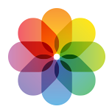
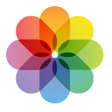
fixed button alignment in the share sidebar #1089

Changed region(s): [[0.1071, 0.1071, 0.8839, 0.8839], [0.0536, 0.0536, 0.5893, 0.5893], [0.4018, 0.4018, 0.9643, 0.9643]]

diff --git a/Project/LooseLeaf/MMPhotoAlbumShareItem.m b/Project/LooseLeaf/MMPhotoAlbumShareItem.m
@@ -88,7 +88,7 @@
         }
     }
     
-    CGPoint center = CGPointMake(button.bounds.size.width/2, button.bounds.size.height/2);
+    CGPoint center = CGPointMake(button.bounds.size.width/2-.5, button.bounds.size.height/2-.5);
     
     CGFloat radius = button.drawableFrame.size.width / 2 - 1;
     CAShapeLayer *circle;
@@ -103,14 +103,14 @@
         [button.layer addSublayer:circle];
         circle.path=[UIBezierPath bezierPathWithArcCenter:center radius:radius startAngle:2*M_PI*0-M_PI_2 endAngle:2*M_PI*1-M_PI_2 clockwise:YES].CGPath;
         circle.lineWidth=radius*2;
-        ((CAShapeLayer*)circle.mask).path=[UIBezierPath bezierPathWithArcCenter:center radius:radius-2 startAngle:2*M_PI*0-M_PI_2 endAngle:2*M_PI*1-M_PI_2 clockwise:YES].CGPath;
+        ((CAShapeLayer*)circle.mask).path=[UIBezierPath bezierPathWithArcCenter:center radius:radius-1.5 startAngle:2*M_PI*0-M_PI_2 endAngle:2*M_PI*1-M_PI_2 clockwise:YES].CGPath;
     }
     
     circle.strokeEnd = lastProgress;
     
     if(lastProgress >= 1.0){
         CAShapeLayer *mask2=[CAShapeLayer layer];
-        mask2.path=[UIBezierPath bezierPathWithArcCenter:center radius:radius-2 startAngle:2*M_PI*0-M_PI_2 endAngle:2*M_PI*1-M_PI_2 clockwise:YES].CGPath;
+        mask2.path=[UIBezierPath bezierPathWithArcCenter:center radius:radius-1.5 startAngle:2*M_PI*0-M_PI_2 endAngle:2*M_PI*1-M_PI_2 clockwise:YES].CGPath;
         
         UIView* checkOrXView = [[UIView alloc] initWithFrame:button.bounds];
         checkOrXView.backgroundColor = [UIColor whiteColor];

diff --git a/Project/LooseLeaf/MMAvatarButton.m b/Project/LooseLeaf/MMAvatarButton.m
@@ -292,7 +292,7 @@
         }
     }
     
-    CGPoint center = CGPointMake(self.bounds.size.width/2, self.bounds.size.height/2);
+    CGPoint center = CGPointMake(self.bounds.size.width/2-.5, self.bounds.size.height/2-.5);
     
     CGFloat radius = self.drawableFrame.size.width / 2 - 1;
     CAShapeLayer *circle;
@@ -310,14 +310,14 @@
         lastRadius = radius;
         circle.path=[UIBezierPath bezierPathWithArcCenter:center radius:radius startAngle:2*M_PI*0-M_PI_2 endAngle:2*M_PI*1-M_PI_2 clockwise:YES].CGPath;
         circle.lineWidth=radius*2;
-        ((CAShapeLayer*)circle.mask).path=[UIBezierPath bezierPathWithArcCenter:center radius:radius-2 startAngle:2*M_PI*0-M_PI_2 endAngle:2*M_PI*1-M_PI_2 clockwise:YES].CGPath;
+        ((CAShapeLayer*)circle.mask).path=[UIBezierPath bezierPathWithArcCenter:center radius:radius-1.5 startAngle:2*M_PI*0-M_PI_2 endAngle:2*M_PI*1-M_PI_2 clockwise:YES].CGPath;
     }
     
     circle.strokeEnd = lastProgress;
     
     if(lastProgress >= 1.0){
         CAShapeLayer *mask2=[CAShapeLayer layer];
-        mask2.path=[UIBezierPath bezierPathWithArcCenter:center radius:radius-2 startAngle:2*M_PI*0-M_PI_2 endAngle:2*M_PI*1-M_PI_2 clockwise:YES].CGPath;
+        mask2.path=[UIBezierPath bezierPathWithArcCenter:center radius:radius-1.5 startAngle:2*M_PI*0-M_PI_2 endAngle:2*M_PI*1-M_PI_2 clockwise:YES].CGPath;
         
         UIView* checkOrXView = [[UIView alloc] initWithFrame:self.bounds];
         checkOrXView.backgroundColor = [UIColor whiteColor];

diff --git a/Project/LooseLeaf/MMImgurShareItem.m b/Project/LooseLeaf/MMImgurShareItem.m
@@ -166,7 +166,7 @@
         }
     }
 
-    CGPoint center = CGPointMake(button.bounds.size.width/2, button.bounds.size.height/2);
+    CGPoint center = CGPointMake(button.bounds.size.width/2-.5, button.bounds.size.height/2-.5);
 
     CGFloat radius = button.drawableFrame.size.width / 2;
     CAShapeLayer *circle;
@@ -179,7 +179,7 @@
         circle.strokeColor=[[UIColor whiteColor] colorWithAlphaComponent:.7].CGColor;
         circle.lineWidth=radius*2;
         CAShapeLayer *mask=[CAShapeLayer layer];
-        mask.path=[UIBezierPath bezierPathWithArcCenter:center radius:radius-2 startAngle:2*M_PI*0-M_PI_2 endAngle:2*M_PI*1-M_PI_2 clockwise:YES].CGPath;
+        mask.path=[UIBezierPath bezierPathWithArcCenter:center radius:radius-1.5 startAngle:2*M_PI*0-M_PI_2 endAngle:2*M_PI*1-M_PI_2 clockwise:YES].CGPath;
         circle.mask = mask;
         [button.layer addSublayer:circle];
     }
@@ -188,7 +188,7 @@
     
     if(lastProgress >= 1.0){
         CAShapeLayer *mask2=[CAShapeLayer layer];
-        mask2.path=[UIBezierPath bezierPathWithArcCenter:center radius:radius-2 startAngle:2*M_PI*0-M_PI_2 endAngle:2*M_PI*1-M_PI_2 clockwise:YES].CGPath;
+        mask2.path=[UIBezierPath bezierPathWithArcCenter:center radius:radius-1.5 startAngle:2*M_PI*0-M_PI_2 endAngle:2*M_PI*1-M_PI_2 clockwise:YES].CGPath;
         
         UIView* checkOrXView = [[UIView alloc] initWithFrame:button.bounds];
         checkOrXView.backgroundColor = [UIColor whiteColor];

diff --git a/Project/LooseLeaf/MMCopyShareItem.m b/Project/LooseLeaf/MMCopyShareItem.m
@@ -58,7 +58,7 @@
 }
 
 -(void) animateToSuccess:(BOOL)succeeded{
-    CGPoint center = CGPointMake(button.bounds.size.width/2, button.bounds.size.height/2);
+    CGPoint center = CGPointMake(button.bounds.size.width/2-.5, button.bounds.size.height/2-.5);
     
     CAShapeLayer *circle=[CAShapeLayer layer];
     CGFloat radius = button.drawableFrame.size.width / 2;
@@ -70,10 +70,10 @@
     
     
     CAShapeLayer *mask=[CAShapeLayer layer];
-    mask.path=[UIBezierPath bezierPathWithArcCenter:center radius:radius-2 startAngle:2*M_PI*0-M_PI_2 endAngle:2*M_PI*1-M_PI_2 clockwise:YES].CGPath;
+    mask.path=[UIBezierPath bezierPathWithArcCenter:center radius:radius-1.5 startAngle:2*M_PI*0-M_PI_2 endAngle:2*M_PI*1-M_PI_2 clockwise:YES].CGPath;
     
     CAShapeLayer *mask2=[CAShapeLayer layer];
-    mask2.path=[UIBezierPath bezierPathWithArcCenter:center radius:radius-2 startAngle:2*M_PI*0-M_PI_2 endAngle:2*M_PI*1-M_PI_2 clockwise:YES].CGPath;
+    mask2.path=[UIBezierPath bezierPathWithArcCenter:center radius:radius-1.5 startAngle:2*M_PI*0-M_PI_2 endAngle:2*M_PI*1-M_PI_2 clockwise:YES].CGPath;
     
     circle.mask = mask;
     
